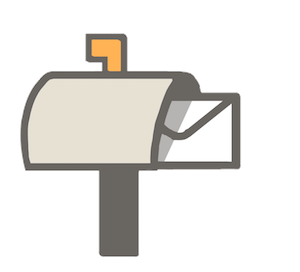
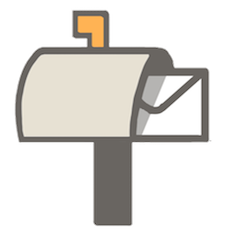
fixed mobile view to a functional level

Changed region(s): [[0.0622, 0.0306, 0.9333, 1.0]]

diff --git a/src/components/contactCard.tsx b/src/components/contactCard.tsx
@@ -8,6 +8,7 @@ import IconButton from '@material-ui/core/IconButton';
 import LinkedInIcon from '@material-ui/icons/LinkedIn';
 import InstagramIcon from '@material-ui/icons/Instagram';
 import Divider from '@material-ui/core/Divider';
+import Grid from '@material-ui/core/Grid';
 
 const useStyles = makeStyles((theme: Theme) => createStyles({
     padding: {
@@ -17,14 +18,16 @@ const useStyles = makeStyles((theme: Theme) => createStyles({
     },
     card: {
       maxWidth: 600,
-      minWidth: 400,
       margin: 'auto',
     },
     icons: {
       justifyContent: 'center'
     },
     mailbox: {
-      paddingLeft: 60,
+      display: 'flex',
+      flexWrap: 'wrap',
+      justifyContent: 'space-around',
+      overflow: 'hidden',
     },
     divider: {
       maxWidth: 100,
@@ -43,7 +46,9 @@ export default function ContactCard() {
       <div className={classes.padding}>
         <Card className={classes.card}>
           <CardContent>
-            <img className={classes.mailbox} src={require('./pictures/mailbox.png')} alt='mailbox'/>
+            <Grid className={classes.mailbox}>
+            <img src={require('./pictures/mailbox.png')} alt='mailbox'/>
+            </Grid>
             <Typography variant="h5">
               Contact
             </Typography>

diff --git a/src/components/aboutCard.tsx b/src/components/aboutCard.tsx
@@ -4,6 +4,7 @@ import CardContent from '@material-ui/core/CardContent';
 import Typography from '@material-ui/core/Typography';
 import { Theme, createStyles, makeStyles } from '@material-ui/core/styles';
 import Divider from '@material-ui/core/Divider';
+import Grid from '@material-ui/core/Grid';
 
 const useStyles = makeStyles((theme: Theme) => createStyles({
     padding: {
@@ -13,8 +14,13 @@ const useStyles = makeStyles((theme: Theme) => createStyles({
     },
     card: {
       maxWidth: 600,
-      minWidth: 400,
       margin: 'auto',
+    },
+    face: {
+      display: 'flex',
+      flexWrap: 'wrap',
+      justifyContent: 'space-around',
+      overflow: 'hidden',
     },
     paragraph:{
       paddingTop: theme.spacing(2),
@@ -31,7 +37,9 @@ export default function AboutCard() {
 
   return (
     <div className={classes.padding}>
-    <img src={require('./pictures/linkedin.png')} alt='selfPortrait' />
+    <Grid className={classes.face}>
+      <img src={require('./pictures/linkedin.png')} alt='selfPortrait' />
+    </Grid>
       <Card className={classes.card}>
         <CardContent>
           <Typography variant="h5">

diff --git a/src/components/IllustrationGrid.tsx b/src/components/IllustrationGrid.tsx
@@ -52,7 +52,7 @@ export default function IllustrationGrid() {
 
   return (
     <div className={classes.root}>
-        <GridList cellHeight={300} cols={3} className={classes.gridList}>
+        <GridList cellHeight={250} cols={3} className={classes.gridList}>
           {tileData.map(tile => (
             <GridListTile key={tile.img}>
               <img src={tile.img} alt={tile.title}/>

diff --git a/public/index.html b/public/index.html
@@ -3,7 +3,7 @@
   <head>
     <meta charset="utf-8" />
     <link rel="icon" href="%PUBLIC_URL%/favicon.ico" />
-    <meta name="viewport" content="width=device-width, initial-scale=1" />
+    <meta name="viewport" content="width=device-width, initial-scale=1, maximum-scale=1.5" />
     <meta name="theme-color" content="#000000" />
     <meta
       name="description"

diff --git a/src/App.tsx b/src/App.tsx
@@ -61,6 +61,7 @@ export interface AppState {
                 onChange={this.handleChangePage}
                 showLabels
                 color="primary"
+                className = "bottomNav"
               >
                 <BottomNavigationAction
                   component={Link}

diff --git a/src/App.css b/src/App.css
@@ -7,4 +7,10 @@
   display: flex;
   min-height: 100vh;
   flex-direction: column;
+  overflow-x: auto;
+}
+
+.bottomNav {
+  display: flex;
+  overflow-x: auto;
 }
